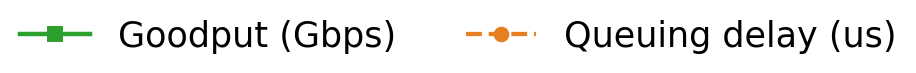
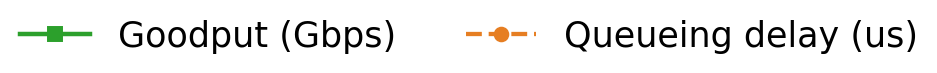
style: correct sensitivity legend queueing label

Changed region(s): [[0.4891, 0.274, 0.9782, 0.7397], [0.0917, 0.274, 0.4279, 0.7397], [0.7031, 0.274, 0.7336, 0.3288]]

diff --git a/htsim/sim/datacenter/prism_eval/expA_sensitivity/make_figs.py b/htsim/sim/datacenter/prism_eval/expA_sensitivity/make_figs.py
@@ -207,7 +207,7 @@ def render_qd():
     proxies = [Line2D([0], [0], marker="s", ls="-", lw=2.3, ms=7, color=plot_style.COLORS["prism"]),
                Line2D([0], [0], marker="o", ls="--", lw=2.2, ms=7, color=QCOL)]
     figL = plt.figure(figsize=(7.0, 0.6))
-    figL.legend(proxies, ["Goodput (Gbps)", "Queuing delay (us)"], ncol=2,
+    figL.legend(proxies, ["Goodput (Gbps)", "Queueing delay (us)"], ncol=2,
                 loc="center", frameon=False, fontsize=18)
     plot_style.save(figL, "figK_qd_legend", FIGS); plt.close(figL)
 
